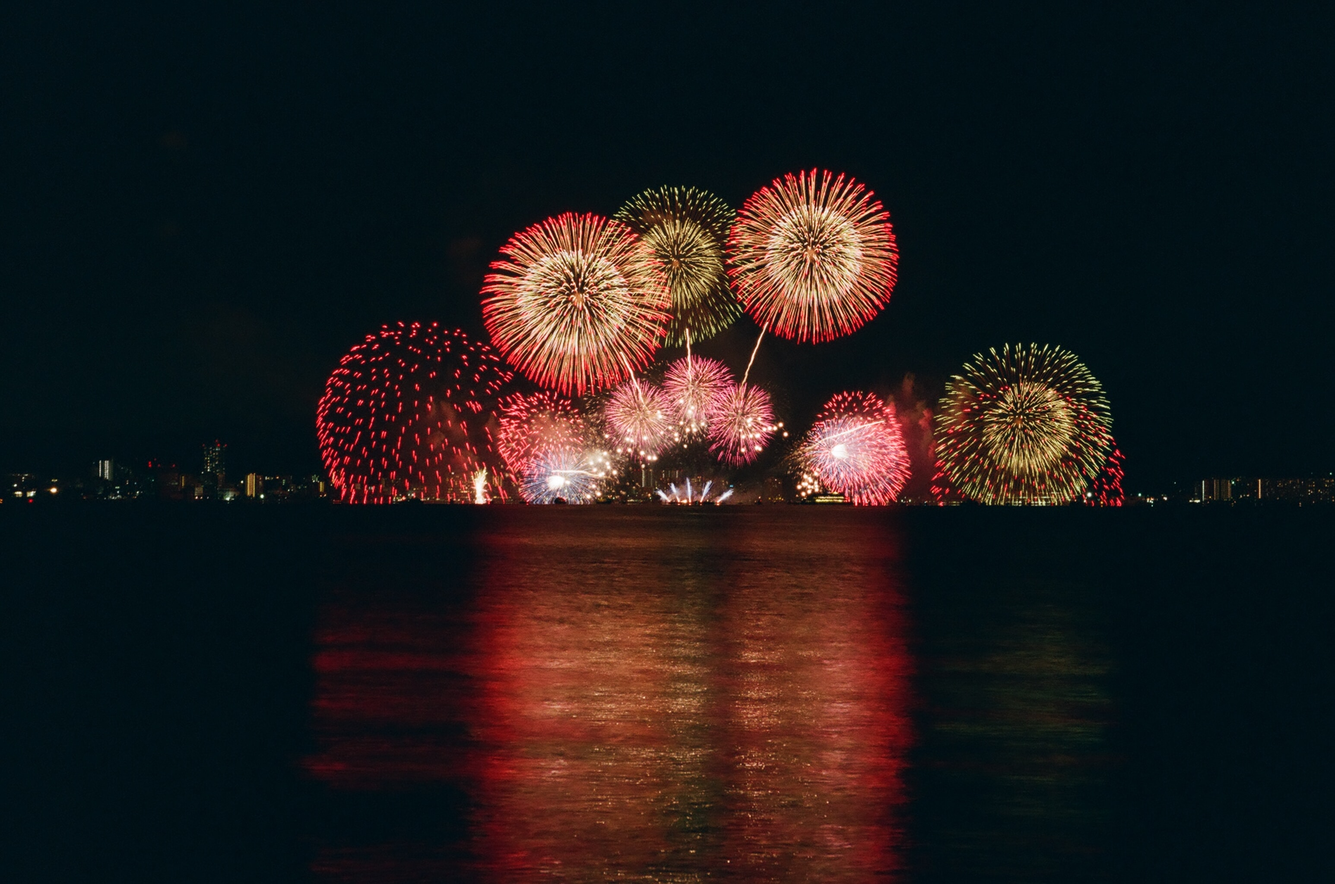
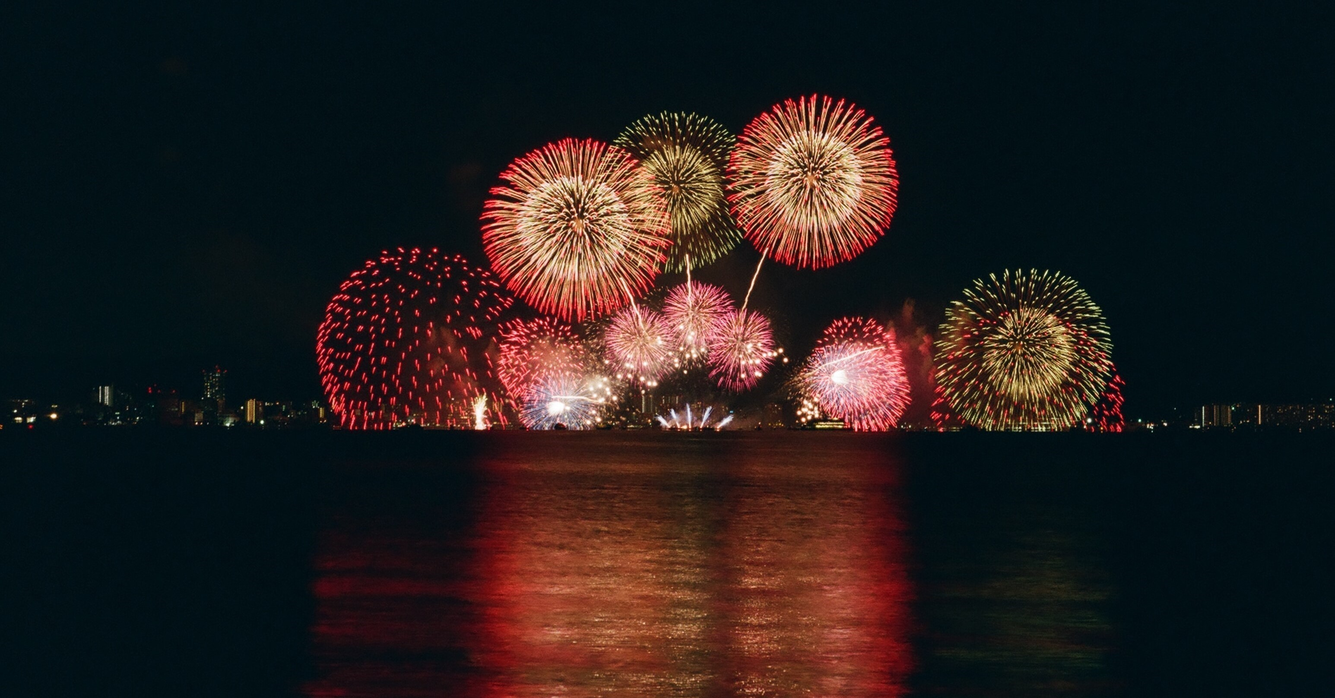
Second Subpage finished

diff --git a/free-folk/seasonal-events.html b/free-folk/seasonal-events.html
@@ -1,32 +1,33 @@
 <!DOCTYPE html>
 <html lang="en">
 <head>
+    <link rel="stylesheet" href="styles/styles.css">
     <meta charset="UTF-8">
     <meta name="viewport" content="width=device-width, initial-scale=1.0">
     <title>Free Folk | Seasonal Events</title>
 </head>
 <body>
-    <div>
-        <header>
+    <div id="content">
+        <header id="navbar">
             <a id="logo_link" href="index.html">
-                <img class="logo" src="images/logo.jpeg" alt="Free folk logo" height="150px" width="150px">
+                <img class="logo" src="images/logo.jpeg" alt="Free folk logo">
             </a>
             <nav>
                 <a href = "index.html">Home</a>
                 <a href = "hidden-gems.html">Hidden Gems</a>
-                <a href = "seasonal-events" target="_blank">Seasonal Events</a>
+                <a href = "seasonal-events.html">Seasonal Events</a>
                 <a href = "contactus.html" target="_blank">Contact Us</a>
             </nav>
         </header>
-        <div>
-            <div>
-                <img src="images/fireworks.jpg" alt="Image of fireworks" width="100%">
+        <div id="hero">
+            <div id="hero-box">
+                <img id="hero-img" src="images/fireworks.jpg" alt="Image of fireworks">
             </div>    
-            <section>
-                <h1>SEASONAL EVENTS</h1>
+            <section id="hero-msg">
+                <h1 class="seasonal-title">SEASONAL EVENTS</h1>
             </section>
         </div>
-        <div>
+        <div id="main-text">
             <p>
                 Throughout the year, some special events and seasonal events are held in the Rexburg area. In this 
                 website we will keep you updated with those events, when they are held, how to get to their locations 
@@ -34,37 +35,37 @@
                 have a free afternoon and not the whole day to drive to more distant places.
             </p>
         </div>
-        <main class="seasonal grid">
-            <section>
-                <img src="images/winter.jpg" alt="Image of a snowflake" width="100%">
+        <main class="seasonal-grid">
+            <section id="winter">
+                <img src="images/winter.jpg" alt="Image of a snowflake">
                 <h2>Winter</h2>
             </section>
-            <section>
-                <img src="images/fall.jpg" alt="Image of pumpkings" width="100%">
+            <section id="fall">
+                <img src="images/fall.jpg" alt="Image of pumpkings">
                 <h2>Fall</h2>
             </section>
-            <section>
-                <img src="images/summer.jpg" alt="Image of sunglasses" width="100%">
+            <section id="summer">
+                <img src="images/summer.jpg" alt="Image of sunglasses">
                 <h2>Summer</h2>
             </section>
-            <section>
-                <img src="images/spring.jpg" alt="Image of flowers" width="100%">
+            <section id="spring">
+                <img src="images/spring.jpg" alt="Image of flowers">
                 <h2>Spring</h2>
             </section>
-            <section>
+            <section id="parade-img">
                 <h2>4th of July Parade</h2>
-                <img src="images/parade.jpg" alt="Image of a 4th of July Parade" width="100%">
+                <img src="images/parade.jpg" alt="Image of a 4th of July Parade">
             </section>
-            <section>
+            <section id="parade-text">
                 <p>Date/Time: Every 4th of July @ 10:00 am</p>
                 <p>Location: Starting @ Smith Park, 3rd East Main St. Rexburg, Idaho</p>
                 <p>Every year the town of Rexburg organizes a parade to celebrate Independence Day. It is such a fun thing to do to celebrate to our country with friends and family.</p>
             </section>
-            <section>
-                <h2>4th of July Parade</h2>
-                <img src="images/party.jpg" alt="Image of a Halloween party" width="100%">
+            <section id="halloween-img">
+                <h2>Halloween Party</h2>
+                <img src="images/party.jpg" alt="Image of a Halloween party">
             </section>
-            <section>
+            <section id="halloween-text">
                 <p>Date/Time: October 27th 5:00pm - 8:00pm</p>
                 <p>Location: 160 W 2nd S, Rexburg, Idaho</p>
                 <p>Hemming Village is in charge of this fun event. Every Halloween season, they decorate their whole street and have different activities to get the most out of this spooky season.</p>

diff --git a/free-folk/styles/styles.css b/free-folk/styles/styles.css
@@ -44,6 +44,8 @@ nav a{
     grid-column: 2/3;
     grid-row: 2/3;
     margin-top: 100px;
+    margin-right: 85px;
+    margin-left: 85px;
     background-color: rgba(176, 173, 165, 50%);
 }
 
@@ -229,4 +231,109 @@ main h3:hover{
     color:#3B4342;
     font-size: .9em;
     padding-bottom: 15px;
+}
+
+
+/* Seasonal Events */
+.seasonal-title{
+    color: rgb(2, 55, 107);
+    font-family: var(--heading-font);
+    font-size: 2em;
+    margin-top: 10px;
+}
+
+.seasonal-grid{
+    display: grid;
+    grid-template-columns: repeat(4, 1fr);
+    padding-top: 35px;
+}
+
+#winter{
+    grid-column: 2/3;
+    grid-row: 1/2;
+    margin-right: 50px;
+    margin-left: -50px;
+}
+
+#winter img{
+    width: 100%;
+}
+
+#fall{
+    grid-column: 3/4;
+    grid-row: 1/2;
+    margin-left: 50px;
+    margin-right: -50px;
+}
+
+#fall img{
+    width: 100%;
+}
+
+#summer{
+    grid-column: 2/3;
+    grid-row: 2/3;
+    margin-right: 50px;
+    margin-left: -50px;
+    width: 100%;
+}
+
+#summer img{
+    width: 100%;
+}
+
+#spring{
+    grid-column: 3/4;
+    grid-row: 2/3;
+    margin-left: 50px;
+    margin-right: -50px;
+    width: 100%;
+}
+
+#spring img{
+    width: 100%;
+}
+
+#parade-img{
+    grid-column: 1/5;
+    grid-row: 3/4;
+    margin-left: 70px;
+    margin-right: 70px;
+    margin-top: 35px;
+}
+
+#parade-img img{
+    width: 100%;
+}
+
+#parade-text{
+    grid-column: 1/3;
+    grid-row: 4/5; 
+    background-color: rgb(201, 188, 150);
+    margin-top: -90px;
+    margin-left: 90px;
+    box-shadow: 5px 5px 10px 5px #6f7364;
+    padding-left: 20px;
+}
+
+#halloween-img{
+    grid-column: 1/5;
+    grid-row: 5/6;
+    margin-left: 70px;
+    margin-right: 70px;
+    margin-top: 35px;
+}
+
+#halloween-img img{
+    width: 100%;
+}
+
+#halloween-text{
+    grid-column: 3/5;
+    grid-row: 6/7; 
+    background-color: rgb(201, 188, 150);
+    margin-top: -90px;
+    margin-right: 90px;
+    box-shadow: 5px 5px 10px 5px #6f7364;
+    padding-left: 20px;
 }
